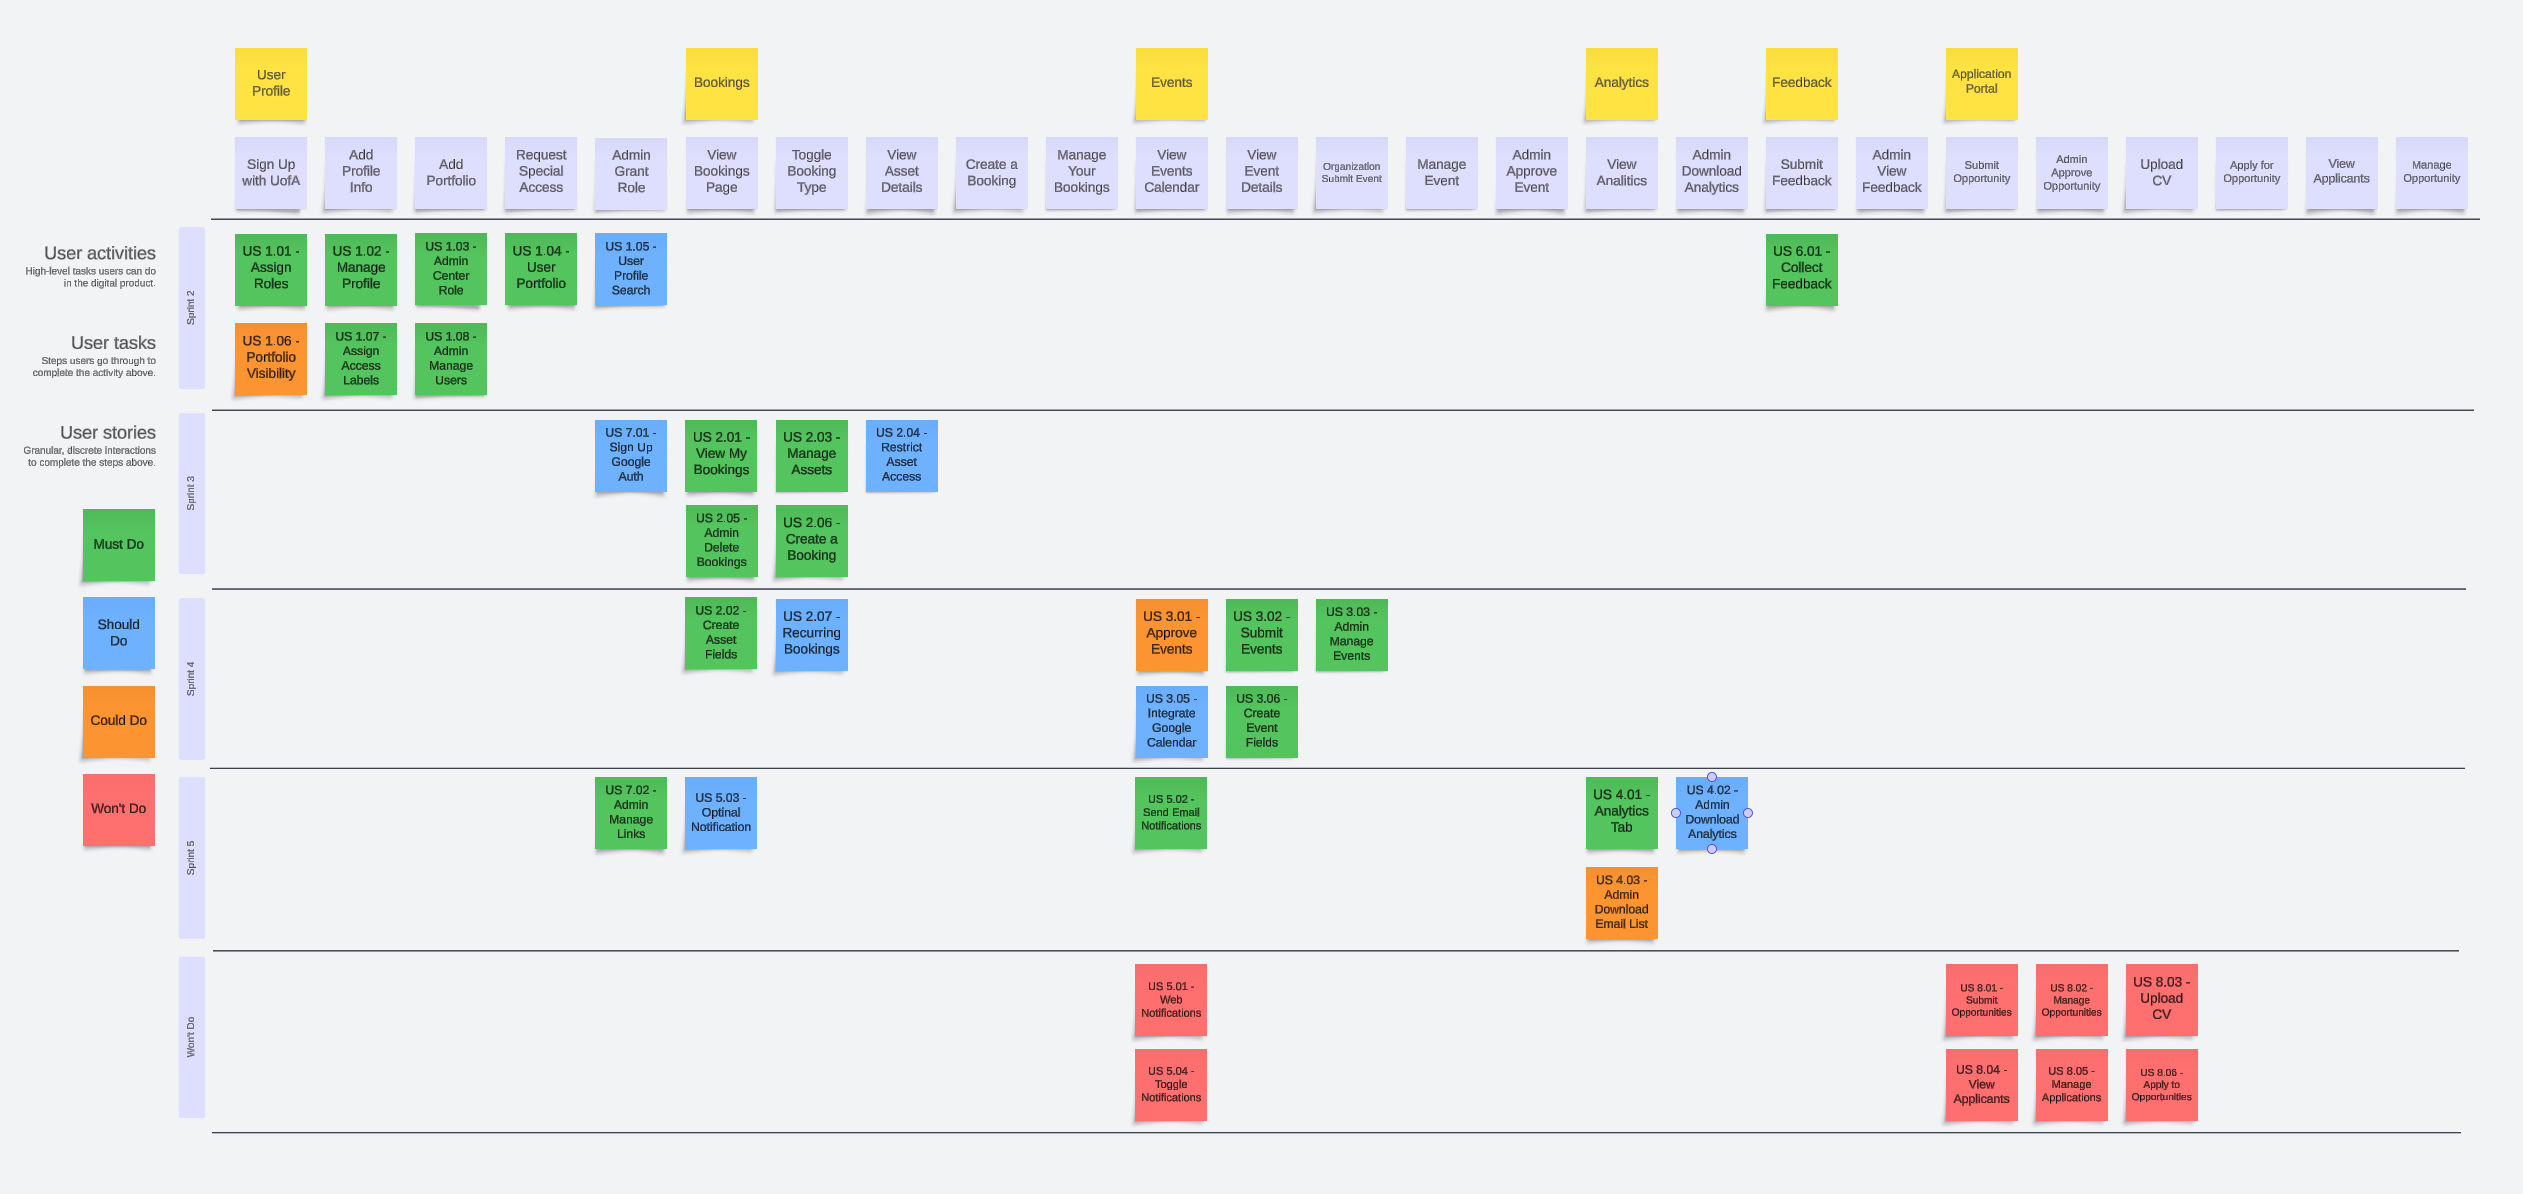
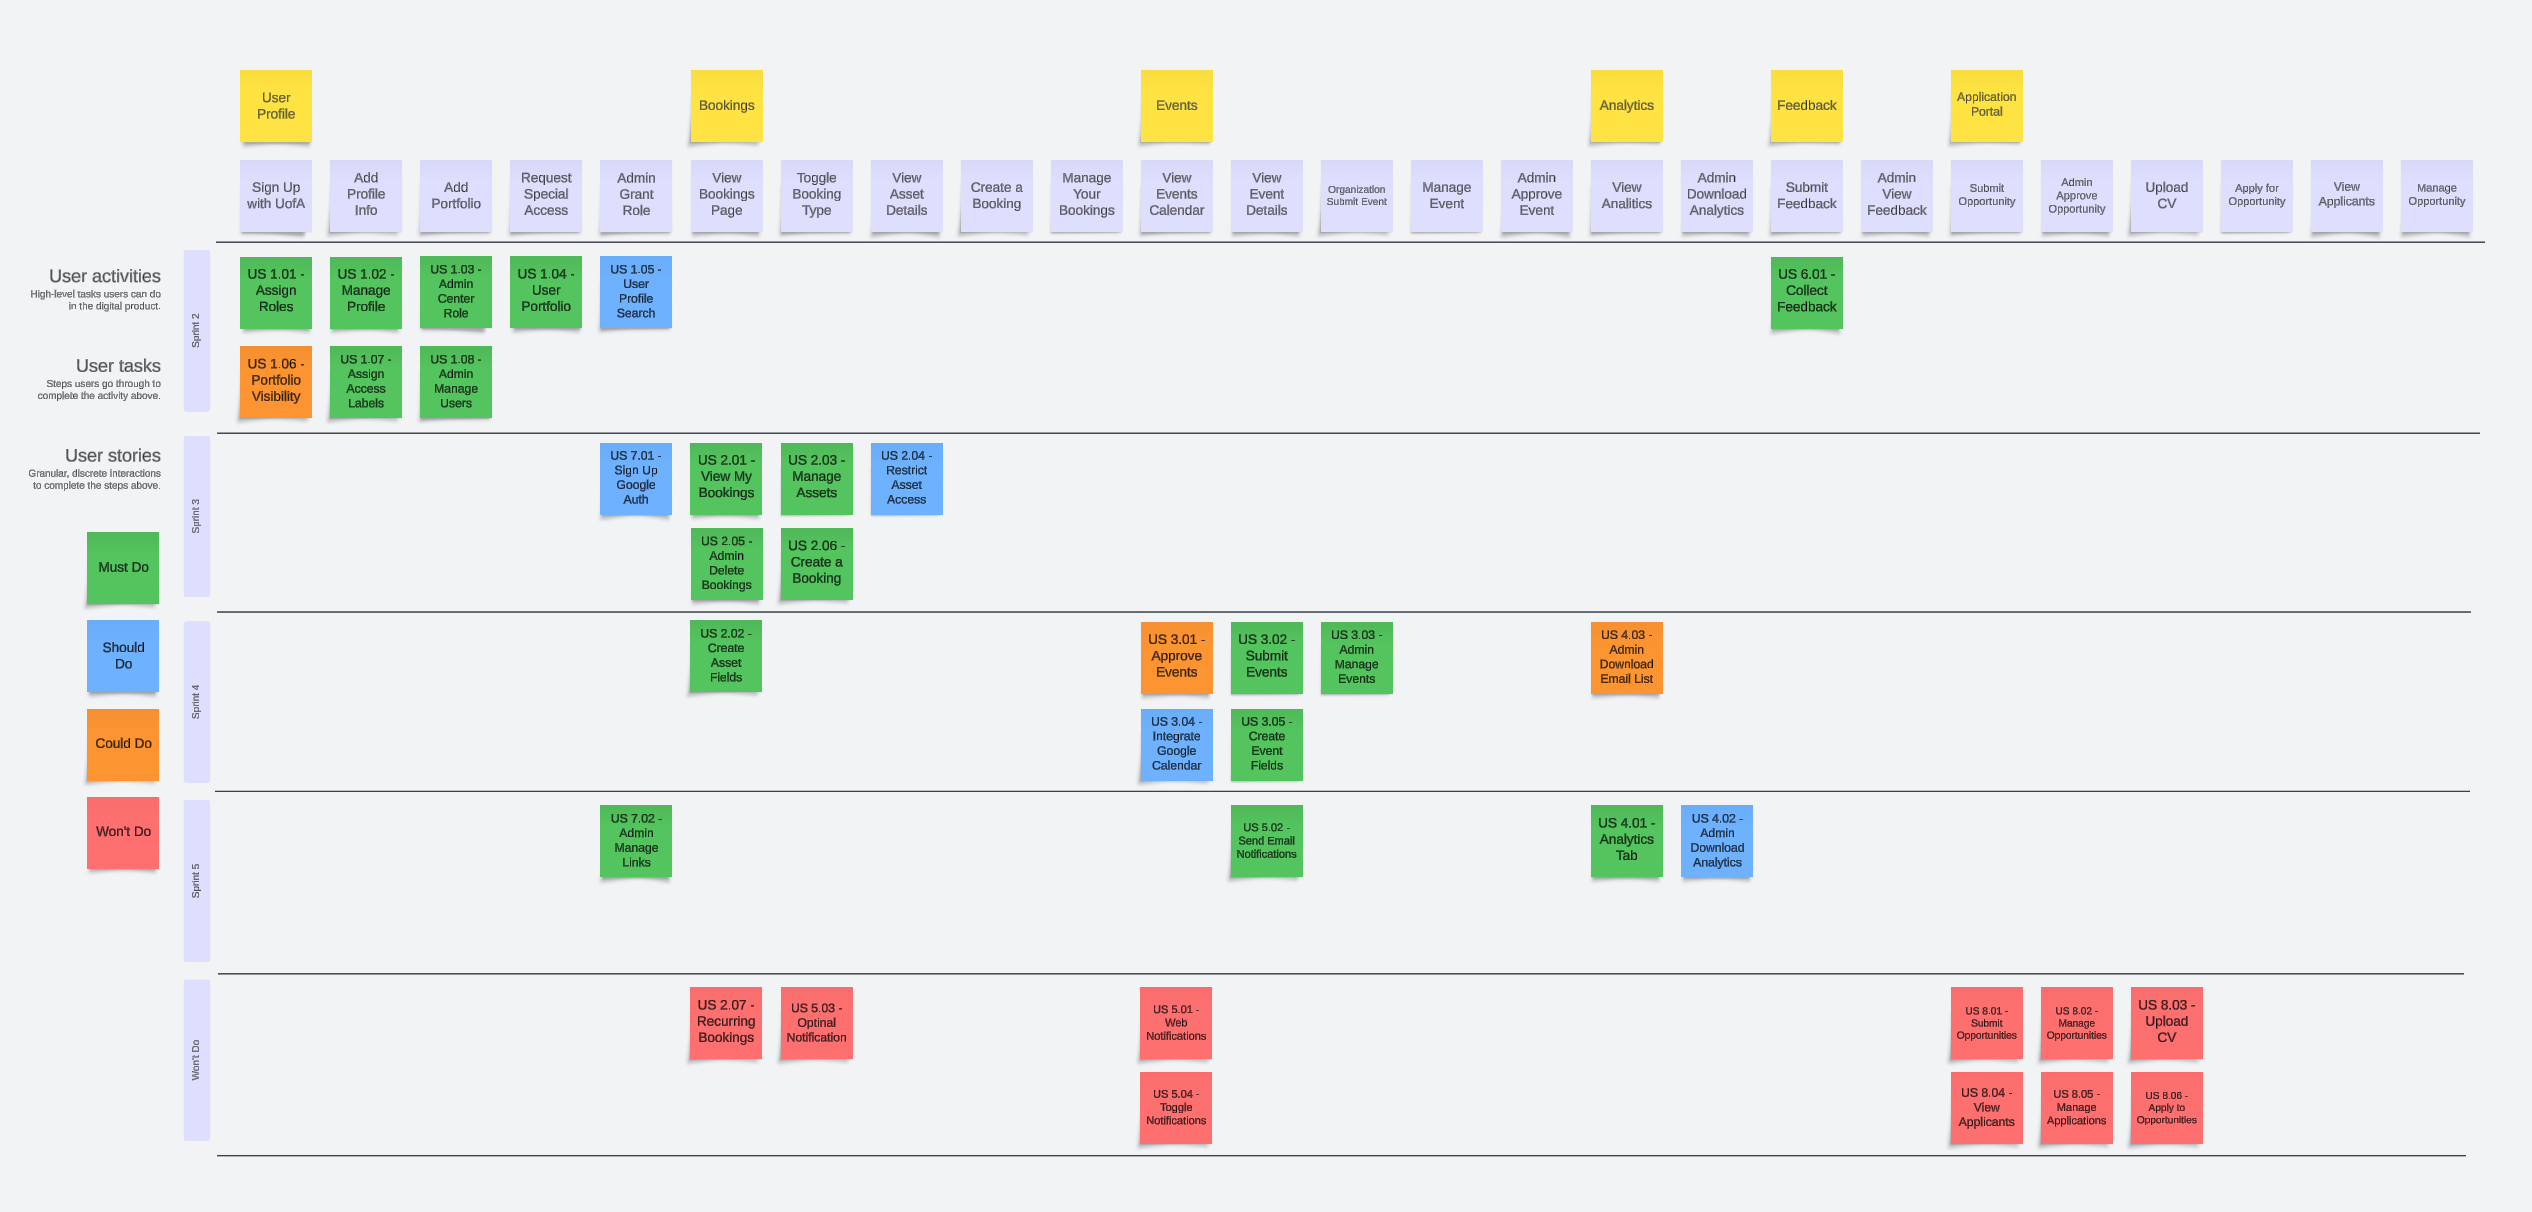
Sprint planning, docs and minor style fix

diff --git a/frontend/src/Profile/ViewProfile.jsx b/frontend/src/Profile/ViewProfile.jsx
@@ -44,7 +44,7 @@ export default function ViewProfile() {
         isLoading ? (
             <Loader />
         ) : (
-            <div className="flex flex-col gap-8 w-full my-[30px] max-w-[1600px] mx-auto">
+            <div className="content-container flex flex-col gap-8 w-full my-[30px] max-w-[1600px] mx-auto">
                 <ProfileHeader profileUser={profileUser} />
 
                 <div className="px-[10px]">

diff --git a/docs/Sprint_Planning.md b/docs/Sprint_Planning.md
@@ -109,7 +109,7 @@ Tasks
 
 Sprint 4
 Due: March 25, 2024
-Estimated Sprint Velocity: 15
+Estimated Sprint Velocity: 13
 
 
 Tasks
@@ -126,10 +126,8 @@ Tasks
 | Integrate Google Calendar API  | US 3.04         | Saahil Rachh      | Mar 19   |
 | Integrate Google Calendar API  | US 3.04         | Yevhen Kaznovskyi | Mar 19   |
 | Admin Manage Events            | US 3.03         | Jonathan Lo       | Mar 21   |
-| Recurring Bookings API         | US 2.07         | Kannan Khosla     | Mar 22   |
-| Recurring Bookings API         | US 2.07         | Ruiyu Yuan        | Mar 22   |
-| Recurring Bookings Modal       | US 2.07         | Jonathan Lo       | Mar 22   |
 | Google Calendar Styling        | US 3.04         | Yevhen Kaznovskyi | Mar 23   |
+| Admin Download Email List      | US 4.03         | Ruiyu Yuan        | Mar 23   |
 | Sprint 4 Testing UI/Stories    | NON-US TASK     | Kenji Chiang      | Mar 23   |
 | Sprint 4 Testing API           | NON-US TASK     | Kannan Khosla     | Mar 23   |
 | Sprint 4 Testing API           | NON-US TASK     | Ruiyu Yuan        | Mar 23   |
@@ -138,12 +136,12 @@ Tasks
 | User story                          | Story points |
 |-------------------------------------|--------------|
 | US 2.02 - Create Asset Fields       | 2            |
-| US 2.07 - Recurring Bookings        | 2            |
 | US 3.01 - Approve Events            | 1            |
 | US 3.02 - Submit Events             | 1            |
 | US 3.03 - Admin Manage Events       | 2            |
 | US 3.04 - Integrate Google Calendar | 5            |
 | US 3.05 - Create Event Fields       | 1            |
+| US 4.03 - Admin Download Email List | 1            |
 | US 7.02 - Admin Manage Links        | 1            | 
 
 
@@ -152,21 +150,41 @@ Sprint 5
 Due: April 8, 2024
 Estimated Sprint Velocity: 13
 
+Tasks
+| Task                           | Related US      | Assigned To       | Due Date |
+|--------------------------------|-----------------|-------------------|----------|
+| Admin Analytics Tab UI         | US 4.01         | Jonathan Lo       | Apr 1    |
+| Admin Analytics Download       | US 4.02         | Kannan Khosla     | Apr 1    |
+| Admin Analytics Download       | US 4.02         | Ruiyu Yuan        | Apr 1    |
+| Admin Email Notifications      | US 5.02         | Yevhen Kaznovskyi | Apr 3    |
+| Admin Email Notifications      | US 5.02         | Saahil Rachh      | Apr 3    |
+| Admin Manage Links             | US 7.02         | Yevhen Kaznovskyi | Apr 3    |
+| Mobile Responsive              | US 7.02         | Yevhen Kaznovskyi | Apr 5    |
+| App Image Issues               | NON-US TASK     | Jonathan Lo       | Apr 5    |
+| Selenium & Manual Testing      | NON-US TASK     | Kenji Chiang      | Apr 6    |
+| Proxy Server Alternative       | NON-US TASK     | Saahil Rachh      | Apr 6    |
+| Deployment                     | NON-US TASK     | Saahil Rachh      | Apr 7    |
+| Events and Bookings Debugging  | NON-US TASK     | Jonathan Lo       | Apr 7    |
+| Documentationg                 | NON-US TASK     | Entire Team       | Apr 7    |
+
+
+
 | User story                          | Story points |
 |-------------------------------------|--------------|
 | US 4.01 - Analytics Tab             | 5            |
 | US 4.02 - Admin Download Analytics  | 2            |
-| US 4.03 - Admin Download Email List | 1            |
 | US 5.02 - Send Email Notifications  | 5            |
-| US 5.03 - Optional Notification     | 1            |
+| US 7.02 - Admin Manage Links        | 1            | 
 
 
 Won't Do List
-Estimated Sprint Velocity: 24
+Estimated Sprint Velocity: 27
 
 | User story                          | Story points |
 |-------------------------------------|--------------|
+| US 2.07 - Recurring Bookings        | 2            |
 | US 5.01 - Web Notifications         | 5            |
+| US 5.03 - Optional Notification     | 1            |
 | US 5.04 - Toggle Notifications      | 3            |
 | US 8.01 - Submit Opportunities      | 5            |
 | US 8.02 - Manage Opportunities      | 1            |

diff --git a/docs/moscow.md b/docs/moscow.md
@@ -24,10 +24,8 @@
 ## Should Do
 - US 1.05 As a user, I want to look up other users by using the search bar, so that I can find information about my friends, organizations, and admins.
 - US 2.04 As an admin, I want to restrict certain assets to users with special AccessType Labels, so that important assets are protected.
-- US 2.07 As a user, I want to book a room at reoccurring times (daily, weekly, monthly, yearly), so that I can ensure I always has a consistent schedule.
 - US 3.04 As an admin, I want to integrate Google Calendar with Events Calendar, so that both calendars can be synced.
 - US 4.02 As an admin, I want to download Analytics from the "Insights" tab as a CSV/XLS file so that I can optimize the center's operations more effectively.
-- US 5.03 As an admin, I want to have the option to check whether they want to notify users on an update, so that some updates do not send a notification.
 - US 7.01 As a user, I want to sign up/in using my Gmail account, so that accessing SIC does not require extra credentials.
 
 ## Could Do
@@ -36,7 +34,9 @@
 - US 4.03 As an admin, I want to download the Email list of all users, so that I can view and find all users with a specific Gmail domain.
 
 ## Won't Do
+- US 2.07 As a user, I want to book a room at reoccurring times (daily, weekly, monthly, yearly), so that I can ensure I always has a consistent schedule.
 - US 5.01 As an admin, I want to send notifications on the website to the mailbox of all users, so that they can be notified not only through Email.
+- US 5.03 As an admin, I want to have the option to check whether they want to notify users on an update, so that some updates do not send a notification.
 - US 5.04 As a user, I want to have the option to toggle which types of notifications I receive, so that I get the information important to me.
 - US 8.01 As a user, I want to submit entrepreneurial thinking placements, so that other users can view the opportunities available.
 - US 8.02 As an admin, I want to be able to manage the application/job portal placements, so that I can approve which placements are appropriate.
